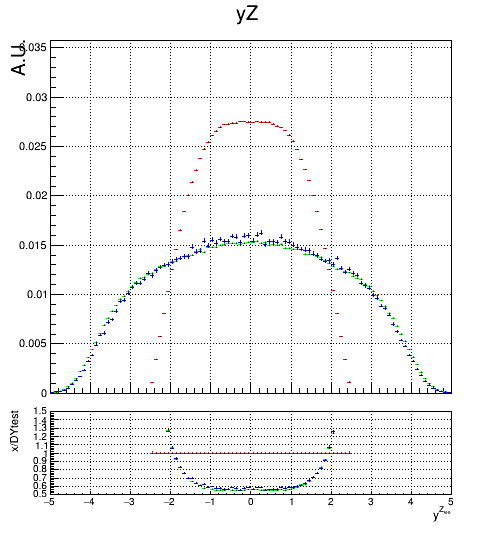
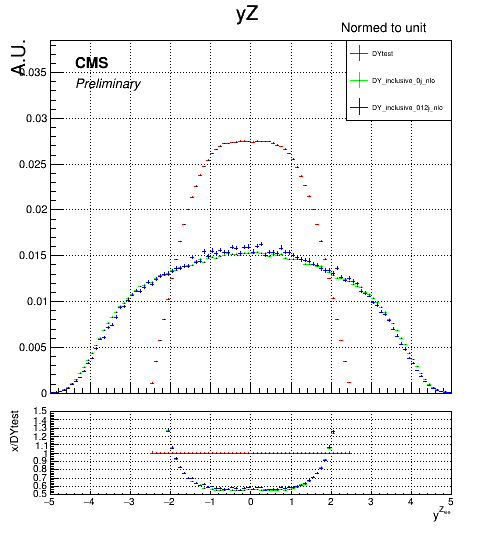
add Z l distributions

diff --git a/Plotter/plotterBase.py b/Plotter/plotterBase.py
@@ -63,7 +63,7 @@ class plotterBase:
             self.pad_down.SetGrid(1)
             self.pad_down.SetTopMargin(0.08)
             self.pad_down.SetBottomMargin(0.3)
-            self.legend = TLegend(0.69, 0.70, 0.90, 0.925)
+            self.legend = TLegend(0.69, 0.70, 0.90, 0.90)
 
         else:
             raise(NameError)
@@ -81,7 +81,7 @@ class kDistributions(plotterBase):
         self.hists = {}
         self.ratio_hists = {}
 
-    def get_hists(self, hists={}, scale="none", rebin=-1):
+    def get_hists(self, hists={}, scale="none", rebin=-1, x_axis_range=[0., -1.], y_axis_range=[0., -1.]):
         for name, hist in hists.items():
             h = hist.Clone("temp_" + name)
             self.hists[name] = h
@@ -102,27 +102,43 @@ class kDistributions(plotterBase):
                 pass
             else:
                 hist.Rebin(rebin)
+        
+        y_range_max = self.automatic_y_range()
+        for name, hist in self.hists.items():
+            if x_axis_range[1] == -1.:
+                pass
+            else:
+                hist.GetXaxis().SetRangeUser(x_axis_range[0], x_axis_range[1])
 
+            if y_axis_range[1] == -1.:
+                if self.logy:
+                    hist.GetYaxis().SetRangeUser(1, y_range_max*10)
+                else:
+                    hist.GetYaxis().SetRangeUser(0, y_range_max*1.4)
+            else:
+                hist.GetYaxis().SetRangeUser(y_axis_range[0], y_axis_range[1])
+
+    def automatic_y_range(self):
+        out = -1.
+        for name, hist in self.hists.items():
+            this_max = hist.GetMaximum()
+            if out < this_max:
+                out = this_max
+        return out
+        
     def generate_ratio(self, base_name):
         for name, hist in self.hists.items():
             ratio = hist.Clone("ratio_" + name)
             ratio.Divide(self.hists[base_name])
             self.ratio_hists[name] = ratio
 
-    def deco_hists(self, deco_type="central", scale_factor=1.,
-                   x_axis=[0., -1.], y_axis=[0., -1.], y_title=""):
+    def deco_hists(self, deco_type="central", scale_factor=1., y_title=""):
         # deco type: syst, central
         if deco_type == "central":
             color = 2
 
-            # get y_range
-            y_range = -1
             for name, hist in self.hists.items():
                 hist.SetStats(0)
-
-                this_y_range = hist.GetMaximum()
-                if y_range < this_y_range:
-                    y_range = this_y_range
 
             # decorate
             for name, hist in self.hists.items():
@@ -130,29 +146,16 @@ class kDistributions(plotterBase):
                 color += 1
 
                 # x axis
-                # range
-                if x_axis[1] == -1.:
-                    pass
-                else:
-                    hist.GetXaxis().SetRangeUser(x_axis[0], x_axis[1])
                 hist.GetXaxis().SetLabelSize(0)
 
                 # y axis
-                if y_axis[1] == -1.:
-                    if self.logy:
-                        hist.GetYaxis().SetRangeUser(1, y_range*10)
-                    else:
-                        hist.GetYaxis().SetRangeUser(0, y_range*1.3)
-                else:
-                    hist.GetXaxis().SetRangeUser(y_axis[0, y_axis[1]])
-
                 hist.GetYaxis().SetTitle(y_title)
                 hist.GetYaxis().SetTitleSize(0.05)
                 hist.GetYaxis().SetTitleOffset(0.8)
                 hist.GetYaxis().SetTitleSize(0.05)
                 hist.GetYaxis().SetLabelSize(0.03)
 
-                self.legend.AddEntry(hist, name, "lep")
+                super().legend().AddEntry(hist, name, "lep")
 
     def deco_ratio(self, deco_type="central", error_range="medium", x_title="", y_title=""):
         if deco_type == "central":
@@ -193,6 +196,10 @@ class kDistributions(plotterBase):
         super().pad_up().cd()
         for name, hist in self.hists.items():
             hist.Draw("same")
+        super().legend().Draw()
+        super().info().DrawLatexNDC(0.68, 0.92, info)
+        super().logo().DrawLatexNDC(0.15, 0.83, cmsText)
+        super().extra_logo().DrawLatexNDC(0.15, 0.78, extraText)
 
         super().pad_down().cd()
         for name, hist in self.ratio_hists.items():
@@ -201,13 +208,6 @@ class kDistributions(plotterBase):
         super().cvs().cd()
         super().pad_up().Draw()
         super().pad_down().Draw()
-        super().legend().Draw()
-
-        # TO DO: latex make latex position as input
-        super().info().DrawLatexNDC(0.68, 0.93, info)
-        super().logo().DrawLatexNDC(0.15, 0.86, cmsText)
-        super().extra_logo().DrawLatexNDC(0.15, 0.82, extraText)
-        super().cvs().Draw()
 
     def draw(self):
         super().cvs().Draw()

diff --git a/Plotter/plotter.py b/Plotter/plotter.py
@@ -7,7 +7,9 @@ import argparse
 parser = argparse.ArgumentParser(description="test")
 parser.add_argument("--hist", required=True, help="histogram name")
 parser.add_argument("--xAxis", required=True, help="x axis name")
+parser.add_argument("--xRange", nargs=2, type=float, default=[0., -1.], help="x axis range")
 parser.add_argument("--yAxis", required=True, help="y axis name")
+parser.add_argument("--yRange", nargs=2, type=float, default=[0., -1.], help="y axis range")
 parser.add_argument("--rebin", default=-1, type=int, help="rebin factor")
 
 args = parser.parse_args()
@@ -30,8 +32,11 @@ for name in file_names:
 hists = {}
 hist_name = str(args.hist)
 x_axis = str(args.xAxis)
+x_axis_range = args.xRange
 y_axis = str(args.yAxis)
-rebin_factor = int(args.rebin)
+y_axis_range = args.yRange
+rebin = int(args.rebin)
+
 #hist_name = "ZMass_ee"
 #x_axis = "M(ee)"
 #y_axis = "A.U."
@@ -53,7 +58,7 @@ for file_name in file_names:
         raise(NameError)
 
 kDist = kDistributions()
-kDist.get_hists(hists=hists, scale="normalize", rebin=rebin_factor)
+kDist.get_hists(hists=hists, scale="normalize", rebin=rebin, x_axis_range=x_axis_range, y_axis_range=y_axis_range)
 kDist.generate_ratio(base_name="DYtest")
 kDist.deco_hists(y_title=y_axis)
 kDist.deco_ratio(x_title=x_axis, y_title="x/DYtest")
